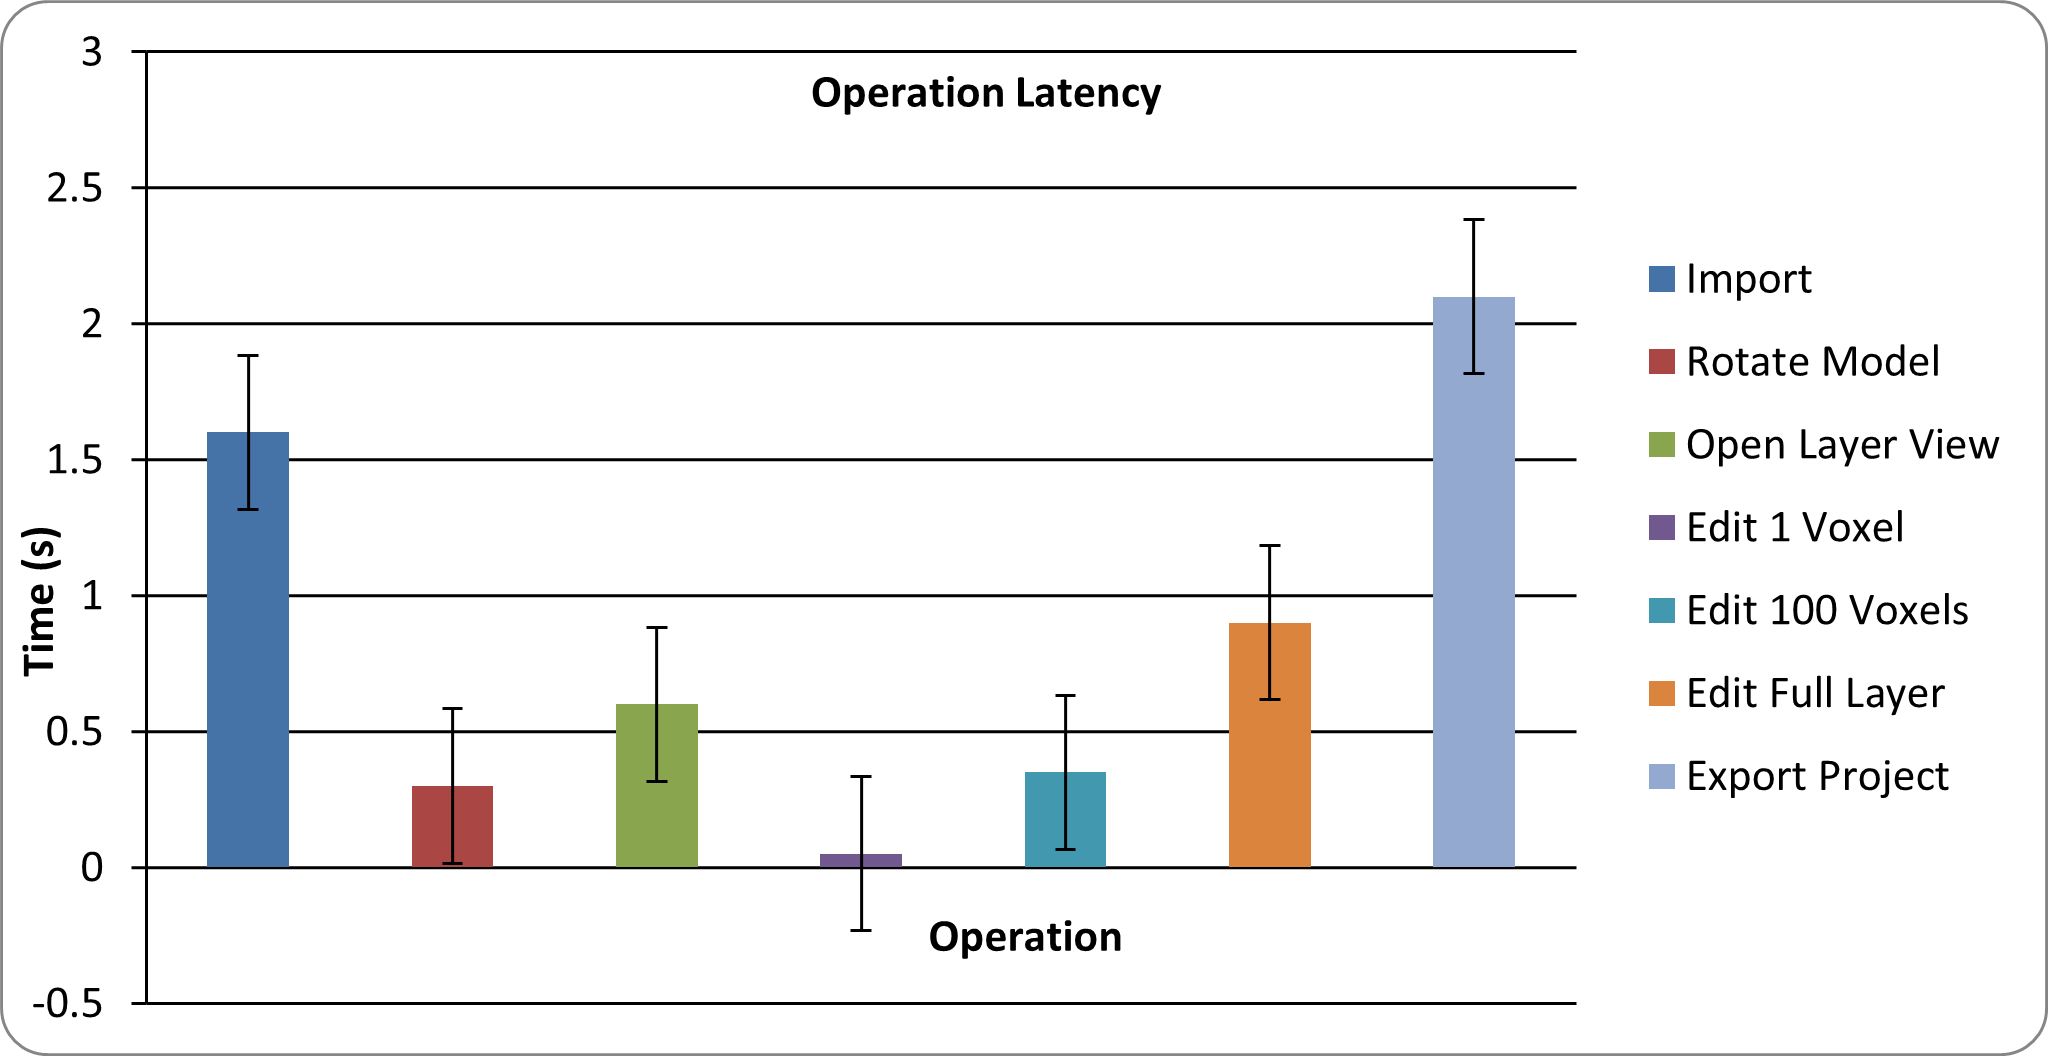
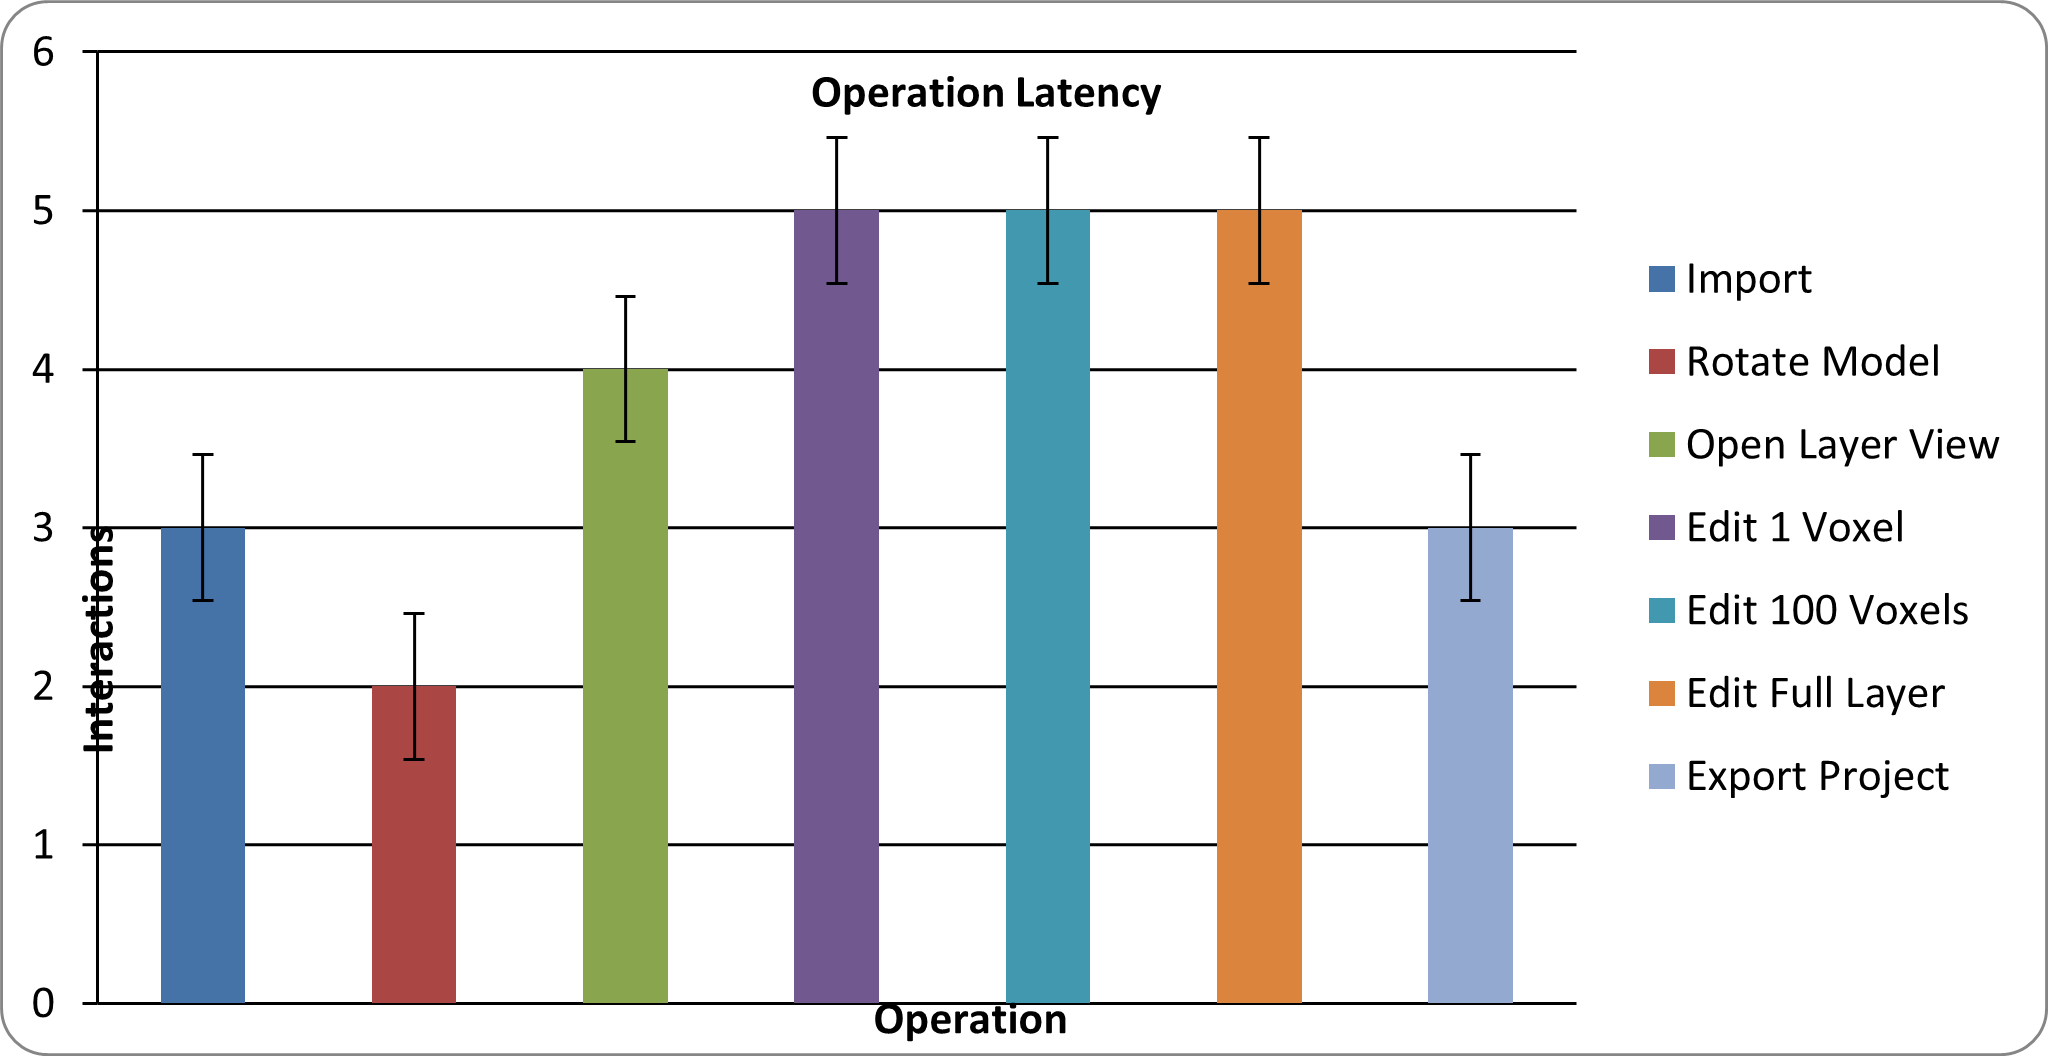
Update performance section to use interaction counts instead of latency

Changed region(s): [[0.0, 0.1562, 0.75, 1.0], [0.0, 0.0312, 0.0625, 0.0625]]

diff --git a/docs/VnVReport/VnVReport.tex b/docs/VnVReport/VnVReport.tex
@@ -266,6 +266,10 @@ The following subsections report on each functional test case defined in the VnV
 
 \section{Nonfunctional Requirements Evaluation}
 
+The non-functional requirements defined in the SRS were evaluated using the corresponding test groups defined in the VnV Plan. 
+In particular, tests labeled \texttt{test-US} correspond to usability evaluation, tests labeled \texttt{test-PS} correspond to performance evaluation, and tests labeled \texttt{test-CO} correspond to compliance testing. 
+The results of these evaluations are summarized in the following subsections.
+
 \subsection{Usability}
 	\subsubsection{Key Findings}
 
@@ -288,6 +292,8 @@ Testing was conducted on local machines using multiple prepared STL models of va
 During testing, several usability metrics were recorded, including task completion success, the number of user errors encountered during task execution, and qualitative observations regarding how users navigated the interface. Participants were also asked to provide open feedback and rate their satisfaction with the usability of the software.
 
 Each testing session was conducted as a single session lasting approximately one hour, during which participants completed the full set of tasks and provided feedback on their experience using the system.
+
+This usability evaluation corresponds primarily to tests \texttt{test-US-1} (Design Acceptance and Intuitivity Survey) and \texttt{test-US-3} (Design Ease of Use Test) defined in the VnV Plan.
 \subsubsection{Results}
 
 The usability evaluation produced both quantitative survey results and qualitative feedback from participants. Users completed the usability survey using a 5-point scale where 1 represents the least intuitive experience and 5 represents the most intuitive.
@@ -370,7 +376,7 @@ Partition Management & Users suggested the ability to rename partitions after th
 
 \subsubsection{Methodology}
 
-Performance testing was conducted according to the procedures defined in the VnV plan, specifically tests PS-1, PS-2, and PS-3. A set of STL models of varying sizes was used to evaluate system scalability, operational latency, and resource usage. The tests measured the time required for importing models, visualizing voxel structures, performing editing operations, and exporting completed models. Additionally, CPU and GPU usage were monitored while executing core operations.
+Performance testing was conducted according to the procedures defined in the VnV Plan, specifically tests \texttt{test-PS-1} (Scalability Validation), \texttt{test-PS-2} (Operational Performance Validation), and \texttt{test-PS-3} (Resource Usage Validation). A set of STL models of varying sizes was used to evaluate system scalability, operational latency, and resource usage. The tests measured the time required for importing models, visualizing voxel structures, performing editing operations, and exporting completed models. Additionally, CPU and GPU usage were monitored while executing core operations. 
 
 \subsubsection{Results}
 
@@ -401,22 +407,21 @@ The relationship between voxel count and import time is illustrated in Figure~\r
 \label{fig:import_scalability}
 \end{figure}
 
-Operational latency was also measured for core system actions including model import, viewing operations, voxel editing, and exporting.
-
+User interaction counts were measured for core system actions including model import, viewing operations, voxel editing, and export.
 \begin{table}[H]
 \centering
 \caption{Operation Latency Results}
 \begin{tabular}{|c|c|}
 \hline
-\textbf{Operation} & \textbf{Time (s)} \\
+\textbf{Operation} & \textbf{Interactions} \\
 \hline
-Import Model & 1.6 \\
-Rotate Model & 0.3 \\
-Open Layer View & 0.6 \\
-Edit Single Voxel & 0.05 \\
-Edit 100 Voxels & 0.35 \\
-Edit Full Layer & 0.9 \\
-Export Project & 2.1 \\
+Import Model & 3 \\
+Rotate Model & 2 \\
+Open Layer View & 4 \\
+Edit Single Voxel & 5 \\
+Edit 100 Voxels & 5 \\
+Edit Full Layer & 5 \\
+Export Project & 3 \\
 \hline
 \end{tabular}
 \end{table}
@@ -443,7 +448,9 @@ Overall, the results confirm that the system satisfies the performance requireme
 
 \subsubsection{Methodology}
 
-Compliance testing was performed according to the procedures defined in the VnV plan (tests CO-1 through CO-4). The evaluation focused on verifying operating system compatibility, file import and export compatibility, project file reliability during unexpected interruptions, and adherence to coding standards.
+Compliance testing was performed according to the procedures defined in the VnV plan (tests \texttt{test-CO-1} through \texttt{test-CO-4}). The evaluation focused on verifying operating system compatibility, file import and export compatibility, project file reliability during unexpected interruptions, and adherence to coding standards.
+
+Compliance testing followed the procedures defined in the VnV Plan through tests \texttt{test-CO-1} to \texttt{test-CO-4}, covering operating system compatibility, file compatibility, project file fail-safe behaviour, and PEP8 coding standard compliance.
 
 \subsubsection{Results}
 
@@ -1394,7 +1401,7 @@ graduate attribute of Reflection.
 
 \subsubsection*{1. What went well while writing this deliverable?}
 \bigskip\bigskip
-\textbf{Omar: } 
+\textbf{Omar: } The main thing that went well was connecting the VnV plan with the VnV report. The plan already defined the tests clearly, so it was straightforward to structure the report around usability, performance, compliance, maintainability, and security. The usability testing also went well since we were able to get feedback from both technical and non-technical users, which helped validate that the interface and main features were intuitive.
 \newline
 \newline
 \textbf{Daniel: } I worked on the backend unit tests, as well as the organization of the usability test with our supervisor and her graduate students, which both went fairly smoothly in spite of the time crunch. The reorganization of the backend into cohesive modules and functions that I participated in was extremely helpful when generating all unit test cases, as well as their relative simplicity. The structure of the usability test - providing as little instruction as possible - also made it easy to identify parts of the software that still need work in terms of understandability.
@@ -1411,7 +1418,7 @@ graduate attribute of Reflection.
 \subsubsection*{2. What pain points did you experience during this deliverable, and how
 did you resolve them?}
 \bigskip
-\textbf{Omar: } 
+\textbf{Omar: } One difficulty was making sure the report matched the VnV plan without repeating the same information. Since the plan already explains how tests are performed, the report had to focus more on results and evaluation. Another challenge was presenting the nonfunctional testing clearly, especially performance results, which required organizing the data into tables and graphs. Following the structure of the reference VnV report helped resolve this.
 \newline
 \newline
 \textbf{Daniel: } Less of a pain point and more a frustration due to lack of experience; when generating unit tests my primary struggle was learning proper use of pytest and mocking classes, as well as when to mock. While I had planned to become familiar with it prior to needing to write these tests, other commitments prevented me from doing so, and I had to learn on the fly how to accomplish what I wanted to do. Fortunately, it was less complex once I figured out the syntax and I was able to finish all unit tests by the deadline I promised.
